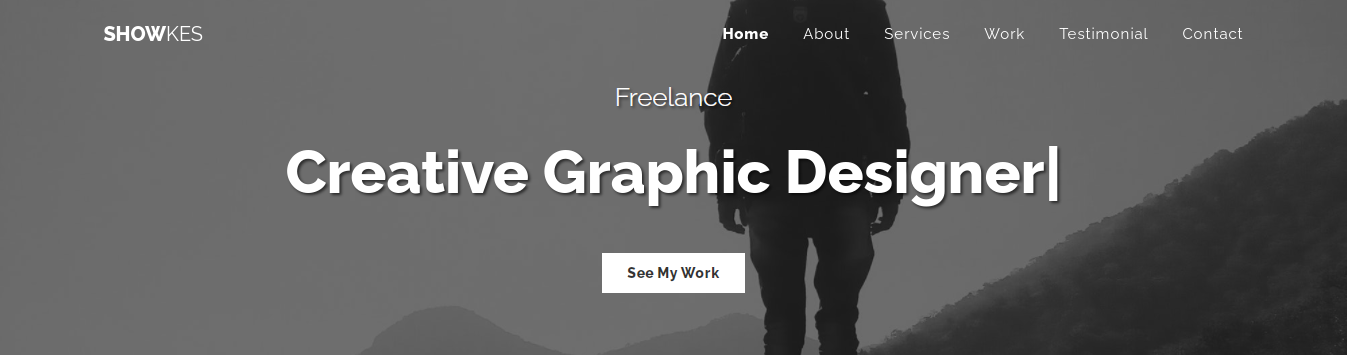
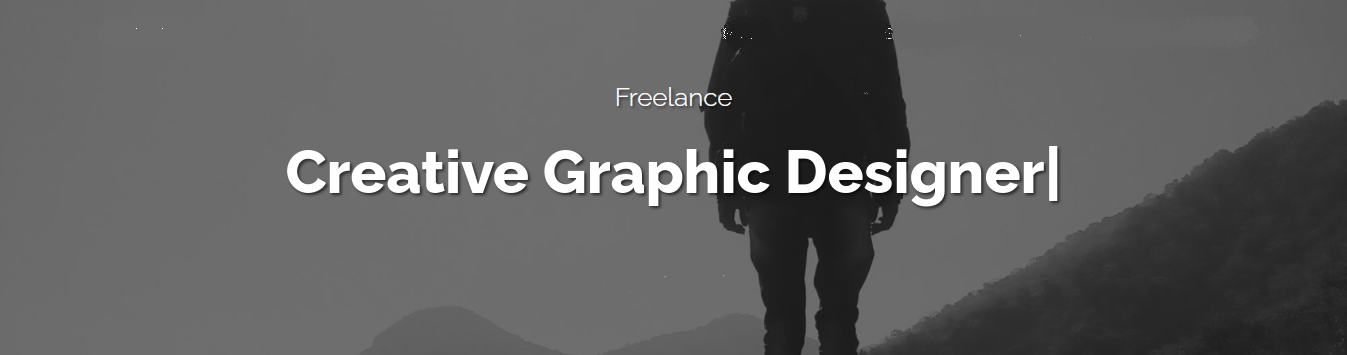
...

diff --git a/themeforest.com/index.html b/themeforest.com/index.html
@@ -13,59 +13,58 @@
 
 <body>
     <header>
-      <div class="header-top">
-        <div class="header-top-flex">
-            <div class="left-side">
-                <a href="#">
-                    <img src="https://public-assets.envato-static.com/assets/logos/envato_market-a5ace93f8482e885ae008eb481b9451d379599dfed24868e52b6b2d66f5cf633.svg"
-                        alt="envato-logo">
-                </a>
+        <div class="header-top">
+            <div class="header-top-flex">
+                <div class="left-side">
+                    <a href="#">
+                        <img src="https://public-assets.envato-static.com/assets/logos/envato_market-a5ace93f8482e885ae008eb481b9451d379599dfed24868e52b6b2d66f5cf633.svg"
+                            alt="envato-logo">
+                    </a>
+                </div>
+                <div class="right-side">
+                    <a href="#">Buy now</a>
+                </div>
             </div>
-            <div class="right-side">
-                <a href="#">Buy now</a>
+            <div class="header-navbar-flex">
+                <div class="left-side flex-center">
+                    <a href="#">
+                        <span style="font-weight: 900;">SHOW</span>KES
+                    </a>
+                </div>
+                <div class="right-side flex-center">
+                    <ul>
+                        <li>
+                            <a href="#">Home</a>
+                        </li>
+                        <li>
+                            <a href="#">About</a>
+                        </li>
+                        <li>
+                            <a href="#">Services</a>
+                        </li>
+                        <li>
+                            <a href="#">Work</a>
+                        </li>
+                        <li>
+                            <a href="#">Testimonial</a>
+                        </li>
+                        <li>
+                            <a href="#">Contact</a>
+                        </li>
+                    </ul>
+                </div>
             </div>
+           
         </div>
-        <div class="header-navbar-flex">
-            <div class="left-side">
-                <a href="#">
-                    <span style="font-weight: 900;">SHOW</span>KES
-                </a>
-            </div>
-            <div class="right-side">
-                <ul>
-                    <li>
-                        <a href="#">Home</a>
-                    </li>
-                    <li>
-                        <a href="#">About</a>
-                    </li>
-                    <li>
-                        <a href="#">Services</a>
-                    </li>
-                    <li>
-                        <a href="#">Work</a>
-                    </li>
-                    <li>
-                        <a href="#">Testimonial</a>
-                    </li>
-                    <li>
-                        <a href="#">Contact</a>
-                    </li>
-                </ul>
-            </div>
-        </div>
-      </div>
-        <div class="header-bottom">
-            <div class="slider">
-                <img src="assets/img/slider.png" alt="image-slider" class="img-fluid">
-            </div>
+        <div class="slider">
+            <img src="assets/img/slider.png" alt="image-slider" class="img-fluid">
         </div>
     </header>
     <main>
         <!-- section about me start -->
         <section id="about-me">
             <div class="container">
-                <div class="tittle">
+                <div class="tittle tittle-flex">
                     <div class="about-tittle">
                         <h1>About <span>Me</span></h1>
                     </div>
@@ -94,7 +93,7 @@
         <!-- section <about me> end -->
 
         <!-- section <What I Do> start -->
-        <section id="what-i-do">
+        <!-- <section id="what-i-do">
             <div class="container">
                 <div class="tittle">
                     <div class="what-tittle">
@@ -167,12 +166,12 @@
                     </div>
                 </div>
             </div>
-        </section>
+        </section> -->
         <hr>
         <!-- section <What I Do> end -->
 
         <!-- section <What I Do> start -->
-        <section id="my-works">
+        <!-- <section id="my-works">
             <div class="container">
                 <div class="tittle">
                     <div class="my-works-tittle">
@@ -235,12 +234,12 @@
                     </a>
                 </div>
             </div>
-        </section>
+        </section> -->
         <hr>
         <!-- section <What I Do> end -->
 
         <!-- section <Quotes> start -->
-        <section id="quotes-section">
+        <!-- <section id="quotes-section">
             <div class="container">
                 <div class="quotes">
                     <div class="quotes-icon">
@@ -257,12 +256,12 @@
                     </div>
                 </div>
             </div>
-        </section>
+        </section> -->
         <hr>
         <!-- section <Quotes> end -->
 
         <!-- section <contact me> start -->
-        <section id="contact-me">
+        <!-- <section id="contact-me">
             <div class="form-container">
                 <div class="tittle">
                     <div class="contact-me-tittle">
@@ -297,12 +296,12 @@
                     </div>
                 </form>
             </div>
-        </section>
+        </section> -->
         <hr>
         <!-- section <contact me> end -->
     </main>
     <footer>
-        <div class="footer-info">
+        <!-- <div class="footer-info">
             <div class="home-adress">
                 <p>1502 N Elm St, Fairmont, MN, 56031, United States</p>
             </div>
@@ -353,7 +352,7 @@
             <div class="copyright">
                 <p>© 2017 Copyright web_bean</p>
             </div>
-        </div>
+        </div> -->
     </footer>
 </body>
 

diff --git a/themeforest.com/assets/css/style.css b/themeforest.com/assets/css/style.css
@@ -41,8 +41,8 @@
 	justify-content: space-between;
     background-color: white;
     align-items: center;
-    height: 50px;
-    padding: 0px 100px;
+    padding: 0px 50px;
+	flex-wrap: wrap;
 }
 
 .header-navbar-flex .left-side a{
@@ -70,21 +70,29 @@
    transform: scale(1.2);
 }
 
-.header-bottom .slider img {
-	width: 100%;
-}
-
 #about-me {
 	margin: 80px 0px;
 }
 
 #about-me .tittle {
-	text-align: center;
+	display: flex;
+	flex-wrap: wrap;
+	justify-content: space-around;
 }
 
 #about-me .tittle .about-tittle {
-	position: relative;
 	padding-bottom: 30px;
+	position: relative;
+}
+
+#about-me .tittle .about-tittle::after{
+	content: "";
+	position: absolute;
+	top: 50px;
+	left: 15px;
+	width: 60px;
+	height: 1px;
+	background-color: #777;
 }
 
 #about-me .tittle .about-tittle h1 {
@@ -98,24 +106,17 @@
 	font-weight: 700;
 }
 
-#about-me .tittle .about-tittle::after {
-	content: "";
-	left: 47%;
-	height: 0px;
-	position: absolute;
-	width: 60px;
-	height: 1px;
-	background-color: #777;
-}
-
 #about-me .tittle .short-context {
+	width: calc(100%/12*12);
+	text-align: center;
 	color: #777;
 	font-weight: 100;
 }
 
 #about-me .about-context-flex {
 	display: flex;
-	justify-content: space-between;
+	flex-wrap: wrap;
+	justify-content: space-around;
 	padding-top: 50px;
 }
 
@@ -125,7 +126,9 @@
 }
 
 #about-me .about-context-flex .context {
-	padding: 30px 90px;
+	max-width: calc(100%/12*6);
+	height: 340px;
+	padding: 30px;
 }
 
 #about-me .about-context-flex .context h2 {
@@ -142,8 +145,7 @@
 #about-me .about-context-flex .context p {
 	font-family: 'Raleway', sans-serif;
 	color: #777;
-	width: 500px;
-	height: 225px;
+	width: 100%;
 	font-size: 15px;
 	line-height: 1.7;
 	font-weight: 100;
@@ -517,3 +519,51 @@ transform: scale(1.3);
 .footer-info .copyright p{
     font-weight: 100px;
 }
+
+@media only screen and (max-width:992px){
+	#about-me .about-context-flex{
+		justify-content: space-around;
+	}
+
+	#about-me .about-context-flex .context {
+		max-width: calc(100%/12*12);
+	}
+  }
+
+  @media only screen and (max-width:768px){
+    .header-navbar-flex{
+		padding: 0 20px;
+	}
+
+	.header-navbar-flex .right-side li{
+		padding: 20px 5px;
+		
+	}
+  }
+
+  @media only screen and (max-width:576px){
+
+	.header-top{
+		position: static;
+		width: 100%;
+		z-index: 9999;
+	}
+
+	.header-navbar-flex{
+		justify-content: space-around;
+	}
+
+	.flex-center{
+		width: calc(100%/12*12);
+		display: flex;
+		flex-wrap: wrap;
+		justify-content: space-around;
+	}
+
+	.header-navbar-flex .right-side li{
+		width: calc(100%/12*12);
+		text-align: center;
+	}
+	
+  }
+  

diff --git a/themeforest.com/assets/css/main.css b/themeforest.com/assets/css/main.css
@@ -5,7 +5,7 @@
   }
   
   .container {
-    width: 1150px;
+    max-width: 1150px;
     margin: 0 auto;
   }
 
